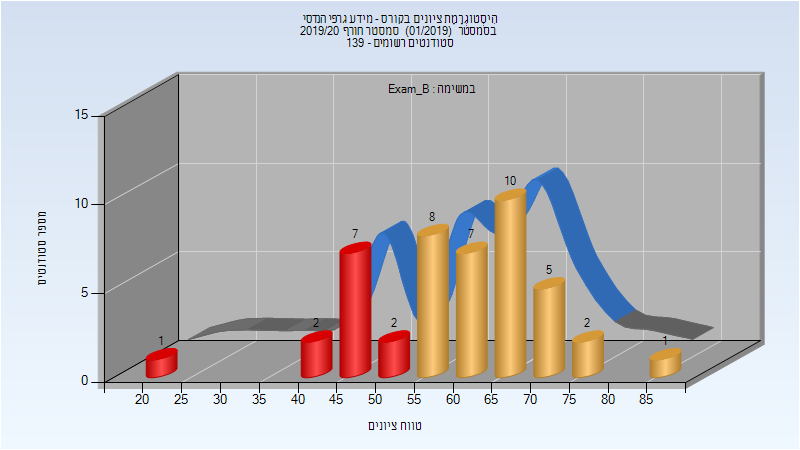
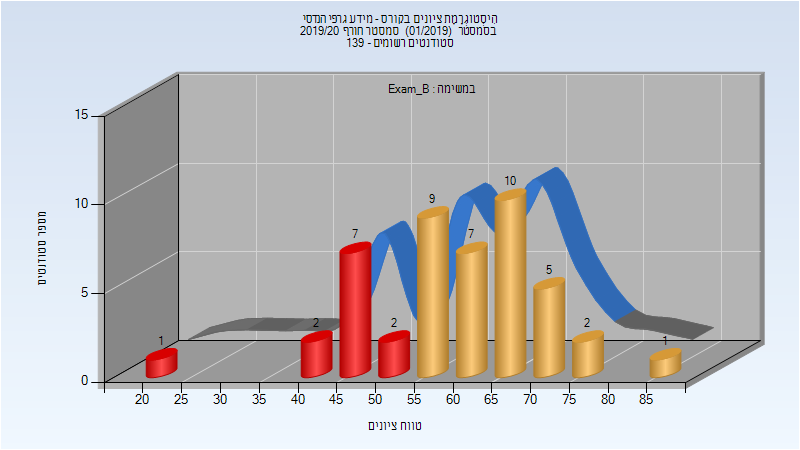
Deploy michael-maltsev/technion-histograms to github.com/michael-maltsev/technion-histograms.git:gh-pages

Changed region(s): [[0.5, 0.4044, 0.625, 0.5289]]

diff --git a/014008/index.html b/014008/index.html
@@ -1081,12 +1081,12 @@
 </thead>
 <tbody>
 <tr>
-<td>45</td>
-<td>33/12</td>
-<td>73</td>
+<td>46</td>
+<td>34/12</td>
+<td>74</td>
 <td>22</td>
 <td>85</td>
-<td>59.733</td>
+<td>59.674</td>
 <td>61</td>
 </tr>
 </tbody>

diff --git a/014008/README.md b/014008/README.md
@@ -339,7 +339,7 @@
 
 | סטודנטים | עברו/נכשלו | אחוז עוברים | ציון מינימלי | ציון מקסימלי | ממוצע | חציון |
 | ---- | ---- | ---- | ---- | ---- | ---- | ---- |
-| 45 | 33/12 | 73 | 22 | 85 | 59.733 | 61 |
+| 46 | 34/12 | 74 | 22 | 85 | 59.674 | 61 |
 
 ### סופי מועד ב'
 
